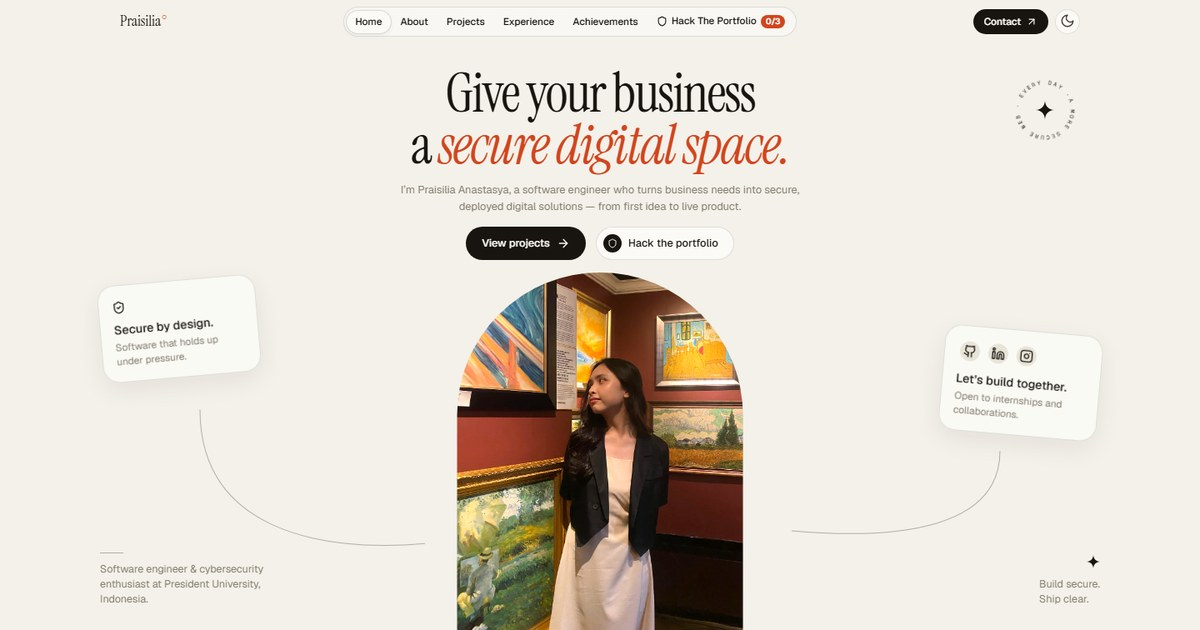
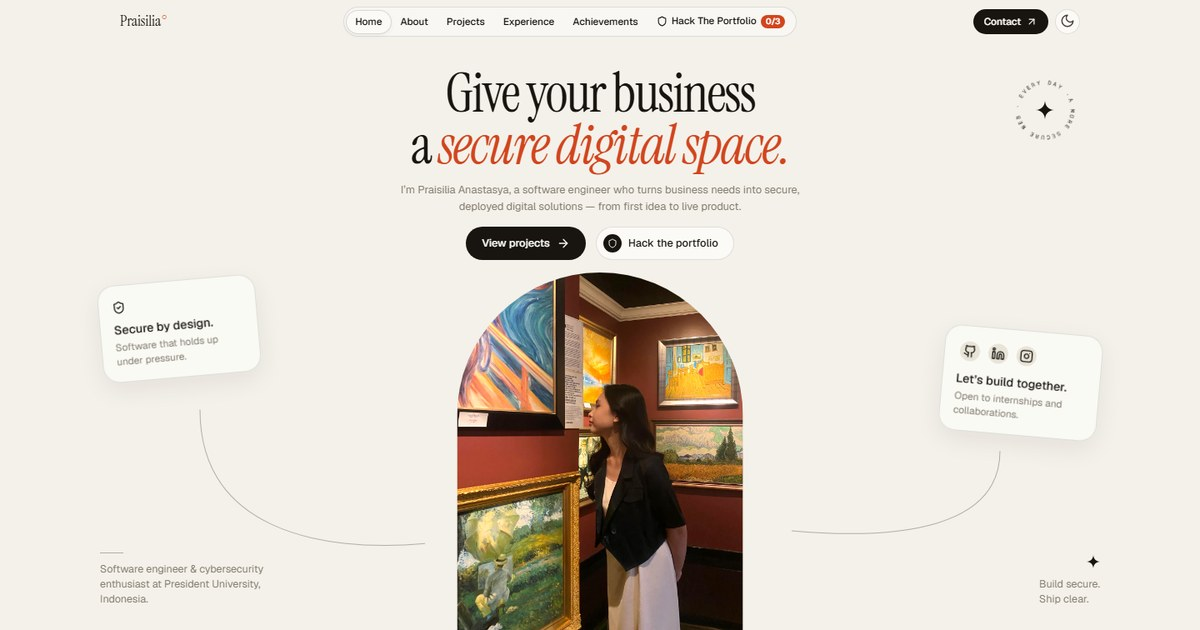
feat(home): update hero portrait and link preview image
- Replace home portrait; show it unzoomed so the whole photo is visible
- Regenerate og-image.jpg from the updated hero

Changed region(s): [[0.37, 0.4222, 0.6167, 1.0]]

diff --git a/src/pages/Home.css b/src/pages/Home.css
@@ -136,8 +136,8 @@
   width: 100%;
   height: 100%;
   object-fit: cover;
-  object-position: center bottom;
-  transform: scale(1.07);
+  object-position: 50% 100%;
+  transform: scale(1);
   transform-origin: 50% 100%;
   filter: brightness(1.12) contrast(1.02);
   display: block;
